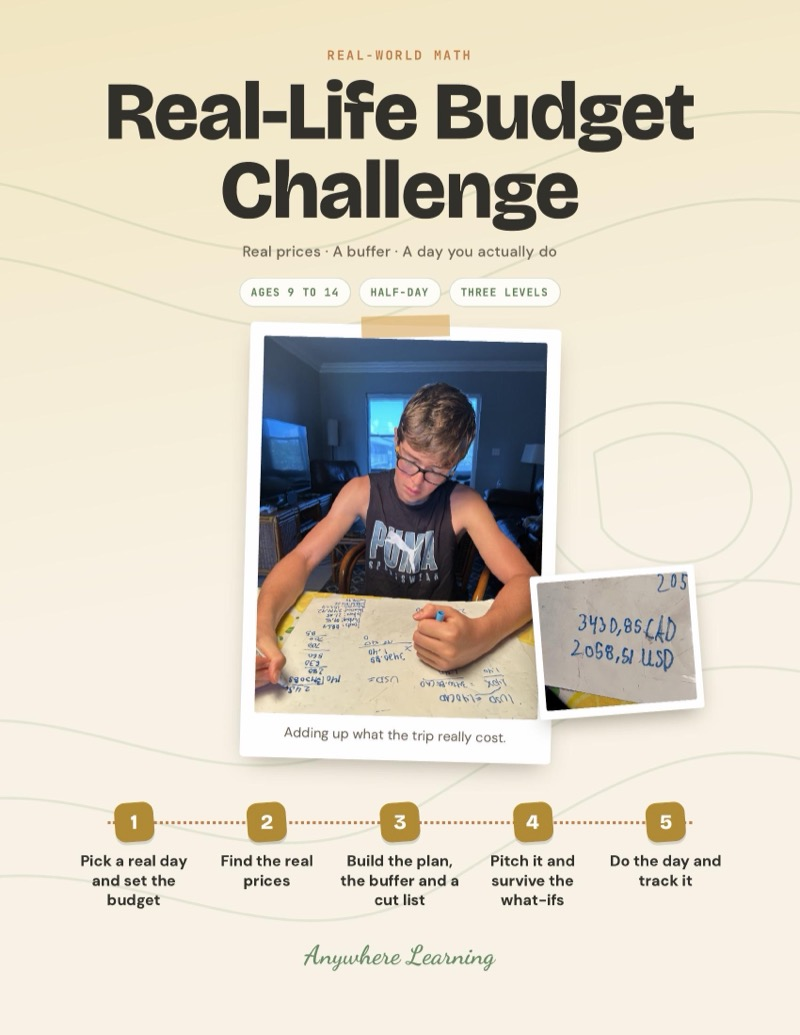
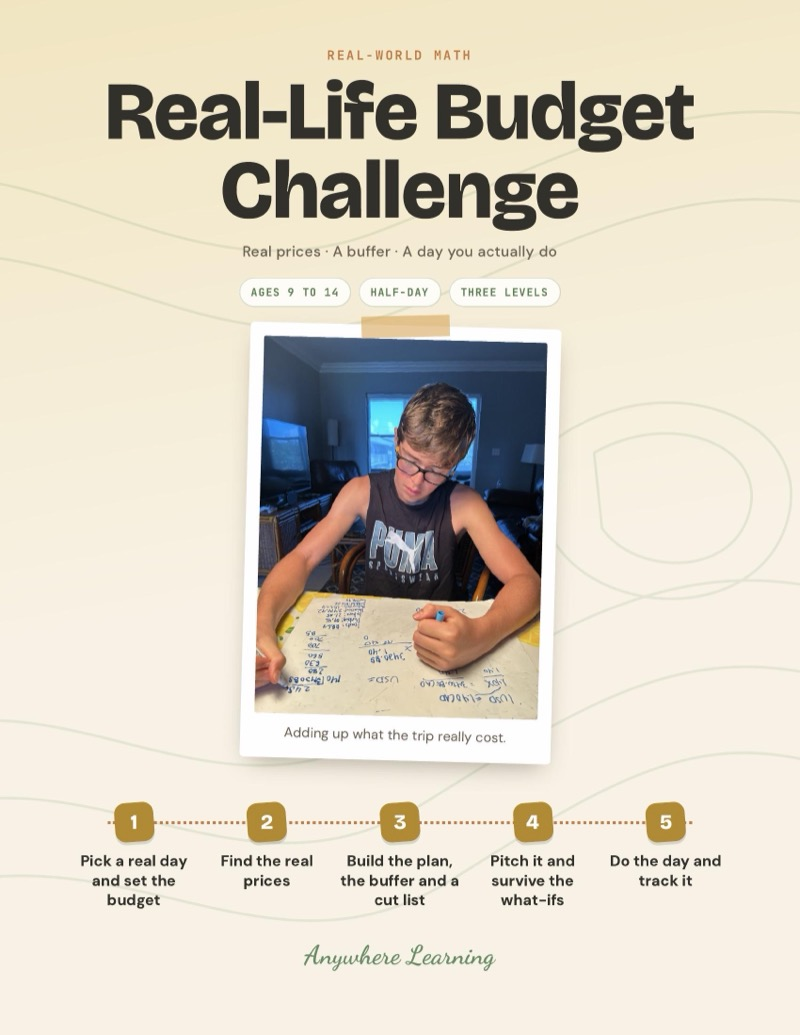
Budget Challenge: estimate was $3,200; drop the USD sheet inset (v8)

Changed region(s): [[0.6562, 0.5256, 0.875, 0.7111]]

diff --git a/lib/activity-blob-urls.ts b/lib/activity-blob-urls.ts
@@ -19,7 +19,7 @@ export const ACTIVITY_BLOB_URLS: Record<string, string> = {
   "body-owners-manual": "https://xkj3tzlgu6ylgllk.public.blob.vercel-storage.com/Planning%20%26%20Problem-Solving%20THE%20BODY%20OWNER%27S%20MANUAL%20v2.pdf",
   "boredom-toolkit": "https://xkj3tzlgu6ylgllk.public.blob.vercel-storage.com/Emotional%20%26%20Social%20Skills%20-%20The%20Boredom%20Toolkit%20v2.pdf",
   "brand-builder": "https://xkj3tzlgu6ylgllk.public.blob.vercel-storage.com/Entrepreneurship%20-%20Brand%20builder%20v2.pdf",
-  "budget-challenge": "https://xkj3tzlgu6ylgllk.public.blob.vercel-storage.com/Real-world%20math%20-%20Real-Life%20Budget%20Challenge%20v7.pdf",
+  "budget-challenge": "https://xkj3tzlgu6ylgllk.public.blob.vercel-storage.com/Real-world%20math%20-%20Real-Life%20Budget%20Challenge%20v8.pdf",
   "build-a-museum": "https://xkj3tzlgu6ylgllk.public.blob.vercel-storage.com/Creativity%20%26%20Maker%20build%20a%20museum%20or%20interactive%20exhibit%20v5.pdf",
   "build-ai-helper": "https://xkj3tzlgu6ylgllk.public.blob.vercel-storage.com/AI%20%26%20Digital%20Literacy%20-%20BUILD%20YOUR%20OWN%20AI%20HELPER%20v2.pdf",
   "business-failure-lab": "https://xkj3tzlgu6ylgllk.public.blob.vercel-storage.com/Entrepreneurship%20-%20Business%20Failure%20Lab%20v2.pdf",

diff --git a/lib/fallback-products.ts b/lib/fallback-products.ts
@@ -586,7 +586,7 @@ export const fallbackProducts: FallbackProduct[] = [
     stripePriceId: "price_1TLrpmAkIBECpwGmgi9i7P74",
     blobUrl: "",
     imageUrl: "/products/budget-challenge.jpg",
-    previewFile: "Preview Real-world math - Real-Life Budget Challenge v7.pdf",
+    previewFile: "Preview Real-world math - Real-Life Budget Challenge v8.pdf",
     category: "real-world-math",
     isBundle: false,
     bundleProductIds: null,
